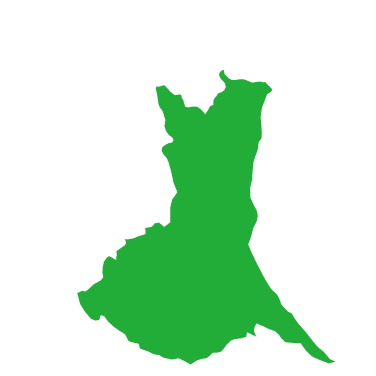
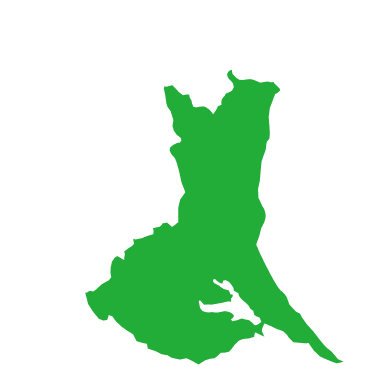
Add files via upload

diff --git a/data_manzai.js b/data_manzai.js
@@ -900,6 +900,100 @@ const manzaiData = {
         ]
     },
 
+    // -------- 千葉 ---------------------------------------------------------------------------------------------------------
+    'chiba': {
+        scenario: [
+            { type: 'dialogue', speaker: '千葉', text: 'はいどうもー！<br>千葉県です！' },
+            { type: 'dialogue', speaker: '山形', text: '山形県で〜す' },
+            { type: 'dialogue', speaker: '山形', text: '今日は県の形だけでも<br>覚えて帰ってくださ〜い' },
+            { type: 'dialogue', speaker: '千葉', text: '千葉といえば<br>県民の血となり肉となっている' },
+            { type: 'dialogue', speaker: '千葉', text: '最強のソウルフード<br>「落花生」があるぞ！' },
+            { type: 'dialogue', speaker: '千葉', text: '生産量はダントツ日本一！' },
+            { type: 'dialogue', speaker: '千葉', text: '給食には「みそピー」が出るし<br>今の時期は「ゆで落花生」だ！' },
+            { type: 'dialogue', speaker: '千葉', text: '掘りたてを塩ゆですると<br>ホックホクで最高なんだよ！' },
+            { type: 'dialogue', speaker: '山形', text: '地元で愛されるソウルフードは<br>大事だよねぇ' },
+            { type: 'dialogue', speaker: '山形', text: '山形にも、みんなが大好きな<br>ソウルフードがあるよ' },
+            { type: 'dialogue', speaker: '千葉', text: 'おっ、なんだ？<br>さくらんぼか？' },
+            { type: 'dialogue', speaker: '山形', text: '「玉こんにゃく」だよ<br>串に刺して醤油で煮るんだ' },
+            { type: 'dialogue', speaker: '千葉', text: 'ああ<br>祭りの屋台とか観光地にあるな！' },
+            { type: 'dialogue', speaker: '千葉', text: '味が染みてて確かに美味い！' },
+            { type: 'dialogue', speaker: '山形', text: 'でも最近は、若者向けに<br>「映え」や「流行」も意識してるんだ' },
+            { type: 'dialogue', speaker: '千葉', text: 'へぇ、こんにゃくで映え？<br>どうやってるんだ？' },
+            {
+                type: 'prompt', speaker: '山形', text: '「山形のタピオカ」ってキャッチコピーで<br>売り出してるよ',
+                tsukkomi: [
+                    { text: "全然<br>甘くねーよ！", 
+                        point: 1, type: ['t', 'p'], 
+                        reaction: '千葉「ミルクティーに入れたら<br>醤油味になっちゃうよ！」' },
+                    { text: "確かに原材料も<br>見た目も似てるけど！", 
+                        point: 3, type: ['t', 'p', 'v'], 
+                        reaction: '千葉「こんにゃくはこんにゃくだろ！」' },
+                    { text: "山形ではこんにゃくが<br>タピオカなんだ", 
+                        point: 0, type: ['v'], 
+                        reaction: '千葉「・・・それってアリ？」' }
+                ]
+            },
+            { type: 'dialogue', speaker: '千葉', text: '・・・<br>ちょっと無理があるんじゃないか？' },
+            { type: 'dialogue', speaker: '千葉', text: 'もっとこう、キャラクターの力で<br>正々堂々と盛り上げるとかさ！' },
+            { type: 'dialogue', speaker: '千葉', text: '千葉にはあの「ふなっしー」がいるぞ！' },
+            { type: 'dialogue', speaker: '千葉', text: '非公認だけど<br>あの「梨汁ブシャー！」の破壊力！' },
+            { type: 'dialogue', speaker: '千葉', text: '俊敏な動きとトーク力で<br>今や国民的スターだ！' },
+            { type: 'dialogue', speaker: '千葉', text: 'やっぱキャラはあれくらい<br>インパクトがないとなぁ！' },
+            { type: 'dialogue', speaker: '山形', text: '元気がいいのはいいねぇ' },
+            { type: 'dialogue', speaker: '山形', text: '山形の朝日町にも<br>非公認キャラクターがいるよ' },
+            { type: 'dialogue', speaker: '千葉', text: 'おっ、ライバル登場か？<br>ふなっしーみたいに暴れるのか？' },
+            { type: 'dialogue', speaker: '山形', text: '「桃色ウサヒ」っていうんだけど' },
+            { type: 'dialogue', speaker: '山形', text: '無個性・無軌道・無表情の<br>3拍子が揃ったピンクのうさぎで' },
+            { type: 'dialogue', speaker: '千葉', text: '・・・え？<br>無個性？無表情？' },
+            {
+                type: 'prompt', speaker: '山形', text: 'キャッチコピーは<br>「朝日が育んだ圧倒的無個性」だよ',
+                tsukkomi: [
+                    { text: "やる気<br>ないだろ！", 
+                        point: 3, type: ['t', 'p', 'v'], 
+                        reaction: '千葉「盛り上げる気ある！？<br>ふなっしー見習え！」' },
+                    { text: "シュールすぎるわ！", 
+                        point: 1, type: ['p', 'v'], 
+                        reaction: '千葉「ちょっと攻めすぎ！」' },
+                    { text: "逆に<br>個性的だな", 
+                        point: 0, type: ['p'], 
+                        reaction: '千葉「ミステリアスな魅力が<br>あるのかもしれない」' }
+                ]
+            },
+            { type: 'dialogue', speaker: '千葉', text: '圧倒的無個性って…<br>よくそれでやっていけるな' },
+            { type: 'dialogue', speaker: '千葉', text: 'やっぱPRには<br>「名前のインパクト」が大事だぞ！' },
+            { type: 'dialogue', speaker: '千葉', text: '千葉を見てみろ！' },
+            { type: 'dialogue', speaker: '千葉', text: '「東京ディズニーランド」に<br>「東京ドイツ村」！' },
+            { type: 'dialogue', speaker: '千葉', text: '住所は千葉だけど<br>世界に通用する「東京」を使う！' },
+            { type: 'dialogue', speaker: '千葉', text: 'このしたたかな戦略こそが<br>千葉の賢さなんだよ！' },
+            { type: 'dialogue', speaker: '山形', text: '名前へのこだわりは大事だねぇ' },
+            { type: 'dialogue', speaker: '山形', text: '山形県も名前にこだわってて<br>インパクトある名前にしたんだ' },
+            { type: 'dialogue', speaker: '千葉', text: 'インパクト？<br>仙台って付けるとか？' },
+            { type: 'dialogue', speaker: '山形', text: '山形県改め・・・' },
+            {
+                type: 'prompt', speaker: '山形', text: '「ラーメン県そば王国やまがた」だよ',
+                tsukkomi: [
+                    { text: "最強の<br>称号だな！", 
+                        point: 0, type: ['v'], 
+                        reaction: '千葉「パスポートなしで<br>入国できるなら行ってみたいな」' },
+                    { text: "県の中に<br>国作るな！", 
+                        point: 3, type: ['t', 'p', 'v'], 
+                        reaction: '千葉「せめて逆だろ！<br>王国の中に県があるなら分かるけど！」' },
+                    { text: "名前が<br>なげーよ！", 
+                        point: 1, type: ['t', 'p'], 
+                        reaction: '千葉「東京ドイツ村より<br>長いじゃないか！」' }
+                    
+                ]
+            },
+            { type: 'dialogue', speaker: '山形', text: 'どう？<br>山形のこと、だいたいわかった？' },
+            { type: 'dialogue', speaker: '千葉', text: 'う〜ん<br>とりあえず・・・' },
+            { type: 'dialogue', speaker: '千葉', text: 'ツッコミどころが多いってことは<br>よくわかったよ' },
+            { type: 'dialogue', speaker: '山形', text: 'それが山形の魅力だ！' },
+            { type: 'dialogue', speaker: '千葉', text: '・・・・・・' },
+            { type: 'dialogue', speaker: '千葉', text: 'それでいいのかよ！' },
+            { type: 'ending', speaker: 'both', text: 'どうも<br>ありがとうございました〜！' },
+        ]
+    },
+
     // -------- 東京 -----------------------------------------------------------------------------------------------------
     'tokyo': {
         scenario: [

diff --git a/index.html b/index.html
@@ -97,7 +97,7 @@
                         <option value="tochigi" disabled>栃木県 (準備中)</option>
                         <option value="gunma">群馬県</option>
                         <option value="saitama" disabled>埼玉県 (準備中)</option>
-                        <option value="chiba" disabled>千葉県 (準備中)</option>
+                        <option value="chiba">千葉県</option>
                         <option value="tokyo">東京都</option>
                         <option value="kanagawa" disabled>神奈川県 (準備中)</option>
                     </optgroup>
